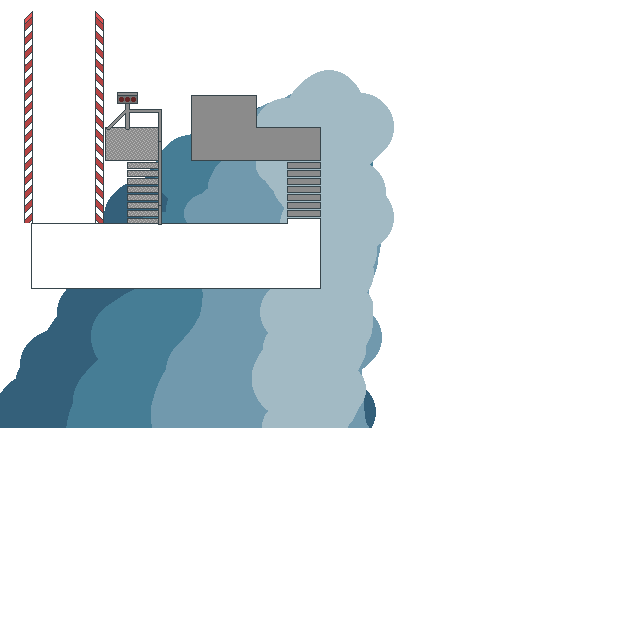
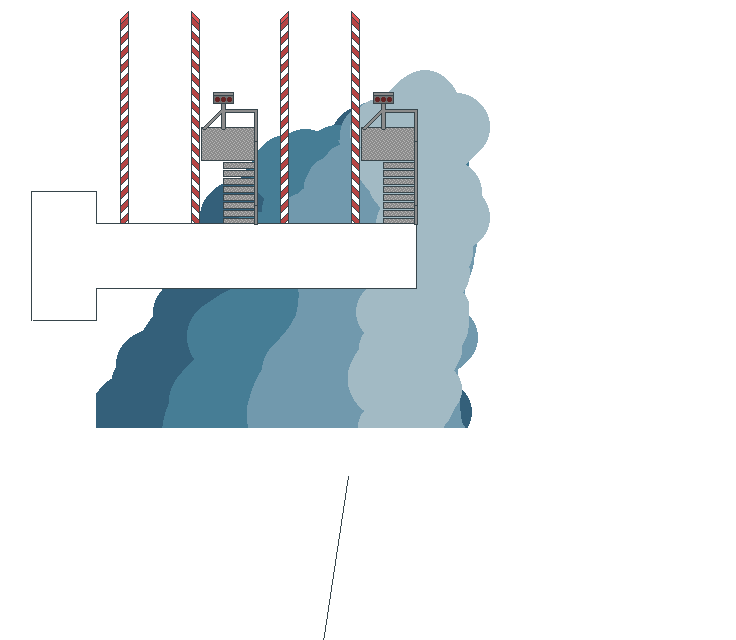
expand home world

Changed region(s): [[0.0, 0.0, 0.6875, 0.6875], [0.0312, 0.0, 0.0625, 0.375]]

diff --git a/AstroMiner/ECS/Systems/LaunchSystem.cs b/AstroMiner/ECS/Systems/LaunchSystem.cs
@@ -13,17 +13,17 @@ public class LaunchSystem(Ecs ecs, GameState gameState) : System(ecs, gameState)
 
     private const float LauncherGridHeight = LauncherHeightPx / (float)GameConfig.CellTextureSizePx;
     private readonly List<int> _launchLightEntities = new();
-    private int LaunchPadFrontEntityId = -1;
-    private int LaunchPadRearEntityId = -1;
 
-    private Vector2 LaunchPadFrontStartPos = ViewHelpers.AbsoluteXyPxToGridPos(26, 126);
-    private Vector2 LaunchPadRearStartPos = ViewHelpers.AbsoluteXyPxToGridPos(26, 95);
+    private readonly Vector2 LaunchPadFrontStartPos = ViewHelpers.AbsoluteXyPxToGridPos(122, 126);
+    private readonly Vector2 LaunchPadRearStartPos = ViewHelpers.AbsoluteXyPxToGridPos(122, 95);
     private bool _isLaunching;
     private float _minerLaunchSpeed;
 
 
     private Vector2 _minerStartPosition;
     private double _startedAt = -1;
+    private int LaunchPadFrontEntityId = -1;
+    private int LaunchPadRearEntityId = -1;
 
     private bool HasJustPassedSeconds(GameTime gameTime, double seconds)
     {
@@ -36,13 +36,9 @@ public class LaunchSystem(Ecs ecs, GameState gameState) : System(ecs, gameState)
     {
         // TODO ideally these'd be in an init()
         if (LaunchPadFrontEntityId == -1)
-        {
             LaunchPadFrontEntityId = GameState.Ecs.Factories.CreateLaunchPadFrontEntity(LaunchPadFrontStartPos);
-        }
         if (LaunchPadRearEntityId == -1)
-        {
             LaunchPadRearEntityId = GameState.Ecs.Factories.CreateLaunchPadRearEntity(LaunchPadRearStartPos);
-        }
 
 
         if (GameState.AsteroidWorld.IsInMiner)
@@ -56,21 +52,21 @@ public class LaunchSystem(Ecs ecs, GameState gameState) : System(ecs, gameState)
 
             if (HasJustPassedSeconds(gameTime, 1))
             {
-                var pos = ViewHelpers.AbsoluteXyPxToGridPos(119, 97);
+                var pos = ViewHelpers.AbsoluteXyPxToGridPos(215, 97);
                 var id = GameState.Ecs.Factories.CreateLaunchLightEntity(pos);
                 _launchLightEntities.Add(id);
             }
 
             if (HasJustPassedSeconds(gameTime, 2))
             {
-                var pos = ViewHelpers.AbsoluteXyPxToGridPos(125, 97);
+                var pos = ViewHelpers.AbsoluteXyPxToGridPos(221, 97);
                 var id = GameState.Ecs.Factories.CreateLaunchLightEntity(pos);
                 _launchLightEntities.Add(id);
             }
 
             if (HasJustPassedSeconds(gameTime, 3))
             {
-                var pos = ViewHelpers.AbsoluteXyPxToGridPos(131, 97);
+                var pos = ViewHelpers.AbsoluteXyPxToGridPos(227, 97);
                 var id = GameState.Ecs.Factories.CreateLaunchLightEntity(pos);
                 _launchLightEntities.Add(id);
             }
@@ -98,10 +94,7 @@ public class LaunchSystem(Ecs ecs, GameState gameState) : System(ecs, gameState)
 
     private bool HasLeftLauncher()
     {
-        if (GameState.ActiveWorld == World.Asteroid)
-        {
-            return true;
-        }
+        if (GameState.ActiveWorld == World.Asteroid) return true;
         var minerEntityId = gameState.Ecs.MinerEntityId;
         if (minerEntityId == null) return false;
 
@@ -134,10 +127,12 @@ public class LaunchSystem(Ecs ecs, GameState gameState) : System(ecs, gameState)
         // a is acceleration, and s is distance remaining
 
         // Rearranging to find acceleration: a = (v² - u²) / (2s)
-        var requiredAcceleration = (GameConfig.Launch.AsteroidSpeed * GameConfig.Launch.AsteroidSpeed - _minerLaunchSpeed * _minerLaunchSpeed) / (2 * distanceRemaining);
+        var requiredAcceleration =
+            (GameConfig.Launch.AsteroidSpeed * GameConfig.Launch.AsteroidSpeed -
+             _minerLaunchSpeed * _minerLaunchSpeed) / (2 * distanceRemaining);
 
         // Apply the calculated acceleration for this frame
-        float deltaTime = gameTime.ElapsedGameTime.Milliseconds / 1000f;
+        var deltaTime = gameTime.ElapsedGameTime.Milliseconds / 1000f;
         _minerLaunchSpeed += requiredAcceleration * deltaTime;
 
         // Cap the speed at MaxLaunchSpeed just to be safe
@@ -146,10 +141,7 @@ public class LaunchSystem(Ecs ecs, GameState gameState) : System(ecs, gameState)
 
     public float GetLaunchPercentage()
     {
-        if (GameState.ActiveWorld == World.Asteroid)
-        {
-            return 1;
-        }
+        if (GameState.ActiveWorld == World.Asteroid) return 1;
         var minerEntityId = gameState.Ecs.MinerEntityId;
         if (minerEntityId == null) return 0;
 
@@ -178,9 +170,10 @@ public class LaunchSystem(Ecs ecs, GameState gameState) : System(ecs, gameState)
         var launchPadFrontPosition = gameState.Ecs.GetComponent<PositionComponent>(LaunchPadFrontEntityId);
         var launchPadRearPosition = gameState.Ecs.GetComponent<PositionComponent>(LaunchPadRearEntityId);
 
-        launchPadFrontPosition.Position = Vector2.Max(launchPadFrontPosition.Position + movement, LaunchPadFrontStartPos - new Vector2(0, LauncherGridHeight));
-        launchPadRearPosition.Position = Vector2.Max(launchPadRearPosition.Position + movement, LaunchPadRearStartPos - new Vector2(0, LauncherGridHeight));
-
+        launchPadFrontPosition.Position = Vector2.Max(launchPadFrontPosition.Position + movement,
+            LaunchPadFrontStartPos - new Vector2(0, LauncherGridHeight));
+        launchPadRearPosition.Position = Vector2.Max(launchPadRearPosition.Position + movement,
+            LaunchPadRearStartPos - new Vector2(0, LauncherGridHeight));
     }
 
     private void ClearLightEntities()

diff --git a/AstroMiner/Definitions/WorldGrid.cs b/AstroMiner/Definitions/WorldGrid.cs
@@ -9,16 +9,17 @@ public enum WorldCellType
 public static class WorldGrid
 {
     private const string OizusWorld = """
-                                      X,X,X,X,X,X,X,X,X,X,X
-                                      X,X,X,X,X,X,X,X,X,X,X
-                                      X,X,X,X,X,X,X,X,X,X,X
-                                      X,-,-,X,X,X,-,-,X,X,X
-                                      X,-,-,-,-,X,-,-,-,-,X
-                                      X,X,X,X,-,X,X,X,X,-,X
-                                      X,X,X,X,-,X,X,X,X,-,X
-                                      X,-,-,-,-,-,-,-,-,-,X
-                                      X,-,-,-,-,-,-,-,-,-,X
-                                      X,X,X,X,X,X,X,X,X,X,X
+                                      X,X,X,X,X,X,X,X,X,X,X,X,X,X
+                                      X,X,X,X,X,X,X,X,X,X,X,X,X,X
+                                      X,X,X,X,X,X,X,X,X,X,X,X,X,X
+                                      X,X,X,X,-,-,X,X,X,X,X,X,X,X
+                                      X,X,X,X,-,-,-,-,X,X,X,-,-,X
+                                      X,X,X,X,X,X,X,-,X,X,X,X,-,X
+                                      X,-,-,X,X,X,X,-,X,X,X,X,-,X
+                                      X,-,-,-,-,-,-,-,-,-,-,-,-,X
+                                      X,-,-,-,-,-,-,-,-,-,-,-,-,X
+                                      X,-,-,X,X,X,X,X,X,X,X,X,X,X
+                                      X,X,X,X,X,X,X,X,X,X,X,X,X,X
                                       """;
 
     private static WorldCellType[,] ParseWorld(string world)

diff --git a/AstroMiner/Renderers/HomeWorld/HomeWorldRenderer.cs b/AstroMiner/Renderers/HomeWorld/HomeWorldRenderer.cs
@@ -15,17 +15,18 @@ public class HomeWorldRenderer : BaseWorldRenderer
 
     public override void RenderWorld(SpriteBatch spriteBatch)
     {
-        spriteBatch.Draw(Shared.Textures["oizus-bg"], Shared.ViewHelpers.GetVisibleRectForGridCell(0, 0, 20, 20), Color.White);
+        spriteBatch.Draw(Shared.Textures["oizus-bg"], Shared.ViewHelpers.GetVisibleRectForGridCell(0, 0, 23, 20),
+            Color.White);
         // RenderDebugCollisionMap(spriteBatch);
     }
 
     private void RenderDebugCollisionMap(SpriteBatch spriteBatch)
     {
         for (var row = 0; row < _gameState.HomeWorld.Grid.GetLength(0); row++)
-            for (var col = 0; col < _gameState.HomeWorld.Grid.GetLength(1); col++)
-                if (_gameState.HomeWorld.Grid[row, col] == WorldCellType.Filled)
-                    spriteBatch.Draw(Shared.Textures["white"],
-                        Shared.ViewHelpers.GetVisibleRectForGridCell(col, row),
-                        Color.Red * 0.5f);
+        for (var col = 0; col < _gameState.HomeWorld.Grid.GetLength(1); col++)
+            if (_gameState.HomeWorld.Grid[row, col] == WorldCellType.Filled)
+                spriteBatch.Draw(Shared.Textures["white"],
+                    Shared.ViewHelpers.GetVisibleRectForGridCell(col, row),
+                    Color.Red * 0.5f);
     }
 }

diff --git a/AstroMiner/HomeWorld/HomeWorldState.cs b/AstroMiner/HomeWorld/HomeWorldState.cs
@@ -1,4 +1,3 @@
-using System;
 using System.Collections.Generic;
 using AstroMiner.Definitions;
 using AstroMiner.ECS.Components;
@@ -45,7 +44,7 @@ public class HomeWorldState(GameState gameState) : BaseWorldState(gameState)
     private void InitializePlayer()
     {
         var playerCellOffset = GameConfig.PlayerSize / 2;
-        var playerPos = new Vector2(4f + playerCellOffset, 7f + playerCellOffset);
+        var playerPos = new Vector2(7f + playerCellOffset, 7f + playerCellOffset);
 
         var playerEntityId = gameState.Ecs.PlayerEntityId ?? gameState.Ecs.Factories.CreatePlayerEntity(playerPos);
 

diff --git a/AstroMiner/Definitions/GameConfig.cs b/AstroMiner/Definitions/GameConfig.cs
@@ -54,7 +54,7 @@ public static class GameConfig
 
         public const float AsteroidSpeed = 60f;
 
-        public static readonly (int x, int y) MinerHomeStartPosCenter = (2, 4);
+        public static readonly (int x, int y) MinerHomeStartPosCenter = (5, 4);
     }
 
 
